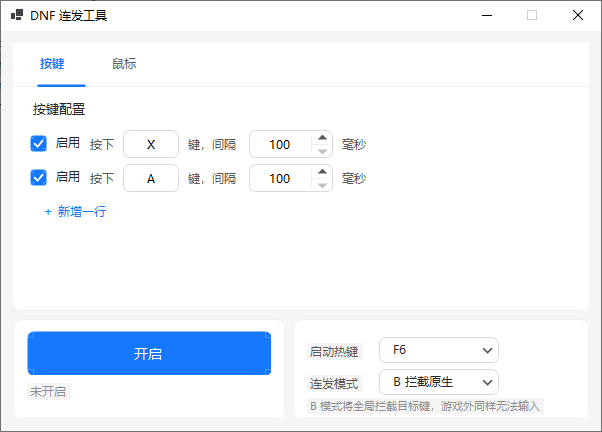
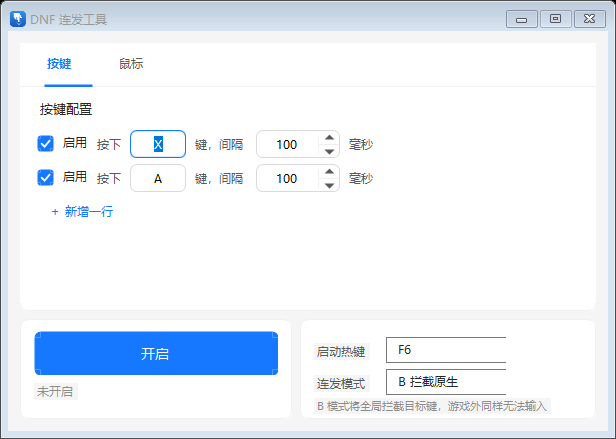
间隔下限改为 1ms；B 模式修复（管理员提权绕过 UIPI）
- 间隔范围 100-5000 改为 1-5000，去掉手动输入的 50 倍数取整（步进按钮仍按 50）
- 连发引擎从 WinForms Timer（实际下限约 15.6ms）重写为高精度线程：
  timeBeginPeriod(1) + Stopwatch 调度，1ms 间隔真正生效；按下立刻补发第一击
- B 模式无效果的根因：DNF(TenProtect) 以管理员运行，UIPI 丢弃低权限
  进程注入的按键；app.manifest 改为 requireAdministrator，注入可达游戏
- 修复图标相关的 3 个 nullable 警告

diff --git a/AutoFireEngine.cs b/AutoFireEngine.cs
@@ -1,66 +1,105 @@
+using System.Diagnostics;
+using System.Runtime.InteropServices;
+
 namespace DnfAutoFire;
 
 /// <summary>
-/// 连发引擎：每个目标键独立一个定时器。
+/// 连发引擎：独立高精度线程按 Stopwatch 调度（支持 1ms 级间隔）。
 /// 按住目标键 → 按设定间隔循环 SendInput(press+release)；松开立刻停止。
 /// 模式 A：放行原生按键，叠加模拟连发；模式 B：拦截原生按键，仅程序模拟（默认）。
 /// </summary>
 internal sealed class AutoFireEngine
 {
-    private readonly Dictionary<int, System.Windows.Forms.Timer> _timers = new();
+    private sealed class KeyState
+    {
+        public int Vk;
+        public int IntervalMs;
+        public volatile bool Held;
+        public long NextDue; // Stopwatch ticks
+    }
+
+    private readonly List<KeyState> _keys = new();
     private KeyboardHook? _hook;
+    private Thread? _worker;
+    private volatile bool _stop;
 
     public bool Running { get; private set; }
 
     /// <summary>"A" 保留原生并叠加；"B" 拦截原生仅模拟。</summary>
     public string Mode { get; set; } = "B";
 
+    [DllImport("winmm.dll")]
+    private static extern uint timeBeginPeriod(uint ms);
+
+    [DllImport("winmm.dll")]
+    private static extern uint timeEndPeriod(uint ms);
+
     public void Start(List<(int Vk, int Ms)> targets)
     {
         Stop();
+        foreach (var t in targets)
+        {
+            if (_keys.Any(k => k.Vk == t.Vk)) continue;
+            _keys.Add(new KeyState { Vk = t.Vk, IntervalMs = Math.Max(1, t.Ms) });
+        }
+
         _hook = new KeyboardHook();
         _hook.KeyDown += OnKeyDown;
         _hook.KeyUp += OnKeyUp;
 
-        foreach (var t in targets)
-        {
-            if (_timers.ContainsKey(t.Vk)) continue;
-            var timer = new System.Windows.Forms.Timer { Interval = Math.Max(100, t.Ms) };
-            int vk = t.Vk;
-            timer.Tick += (_, _) => NativeInput.TapKey(vk);
-            _timers[t.Vk] = timer;
-        }
-
+        _stop = false;
+        timeBeginPeriod(1); // 把系统计时精度提到 1ms，Sleep(1) 才真正约 1ms
+        _worker = new Thread(WorkerLoop) { IsBackground = true, Name = "AutoFireEngine" };
+        _worker.Start();
         _hook.Install();
         Running = true;
     }
 
     public void Stop()
     {
-        foreach (var timer in _timers.Values)
-        {
-            timer.Stop();
-            timer.Dispose();
-        }
-        _timers.Clear();
+        _stop = true;
+        try { _worker?.Join(1000); } catch { /* 线程可能尚未启动 */ }
+        _worker = null;
+        timeEndPeriod(1);
+        _keys.Clear();
         _hook?.Dispose();
         _hook = null;
         Running = false;
     }
 
+    private void WorkerLoop()
+    {
+        var sw = Stopwatch.StartNew();
+        while (!_stop)
+        {
+            long now = sw.ElapsedTicks;
+            foreach (var k in _keys)
+            {
+                if (!k.Held || now < k.NextDue) continue;
+                NativeInput.TapKey(k.Vk);
+                long period = k.IntervalMs * Stopwatch.Frequency / 1000;
+                // 追平落后量，避免累积漂移；不早于当前时刻
+                k.NextDue = Math.Max(k.NextDue + period, sw.ElapsedTicks);
+            }
+            Thread.Sleep(1);
+        }
+    }
+
     private void OnKeyDown(int vk)
     {
-        if (!_timers.TryGetValue(vk, out var timer)) return;
+        var k = _keys.FirstOrDefault(x => x.Vk == vk);
+        if (k == null) return;
         if (Mode == "B") _hook!.SuppressCurrent();
-        // 原生长按会反复触发 keydown，定时器已在跑则忽略
-        if (timer.Enabled) return;
-        timer.Start();
+        if (k.Held) return; // 原生长按会反复触发 keydown
+        k.Held = true;
+        k.NextDue = 0; // 立刻补一发，模拟真实单击
     }
 
     private void OnKeyUp(int vk)
     {
-        if (!_timers.TryGetValue(vk, out var timer)) return;
+        var k = _keys.FirstOrDefault(x => x.Vk == vk);
+        if (k == null) return;
         if (Mode == "B") _hook!.SuppressCurrent();
-        timer.Stop();
+        k.Held = false;
     }
 }

diff --git a/MainForm.cs b/MainForm.cs
@@ -4,7 +4,7 @@ public class MainForm : Form
 {
     private const int WM_HOTKEY = 0x0312;
     private const int HOTKEY_ID_START = 1;
-    private const int MinMs = 100;
+    private const int MinMs = 1;
     private const int MaxMs = 5000;
     private const int RowH = 34;
     private const int MaxRows = 5;  // 最多 5 行（默认 2 + 新增 3）
@@ -45,7 +45,8 @@ public class MainForm : Form
 
     public MainForm()
     {
-        _appIcon = Icon.ExtractAssociatedIcon(Application.ExecutablePath);
+        _appIcon = Icon.ExtractAssociatedIcon(Application.ExecutablePath)
+                   ?? SystemIcons.Application;
         Icon = _appIcon;
 
         Font = new Font(AntStyle.FontName, 9f);
@@ -99,6 +100,22 @@ public class MainForm : Form
 
     /// <summary>调试入口：--screenshot 模拟新增行。</summary>
     internal void DebugAddEmptyRow() => AddEmptyRow();
+
+    /// <summary>调试入口：--enginetest &lt;A|B&gt; &lt;秒&gt;。窗口显示后自动开启连发引擎（默认配置行），数秒后自动关闭退出。</summary>
+    internal void DebugEngineTest(string mode, int seconds)
+    {
+        cboMode.SelectedIndex = mode == "A" ? 1 : 0;
+        var t = new System.Windows.Forms.Timer { Interval = 800 };
+        t.Tick += (_, _) =>
+        {
+            t.Stop();
+            DoStart();
+            var stop = new System.Windows.Forms.Timer { Interval = seconds * 1000 };
+            stop.Tick += (_, _) => { stop.Stop(); DoStop(); Close(); };
+            stop.Start();
+        };
+        t.Start();
+    }
 
     /// <summary>
     /// 调试入口：--uitest &lt;prefix&gt;。窗口全程可见，模拟"进入运行态→回到停止态"的按钮状态切换
@@ -788,7 +805,7 @@ public class MainForm : Form
     private static int NormalizeMs(string text)
     {
         if (!int.TryParse(text?.Trim(), out int v) || v <= 0) return MinMs;
-        return ClampMs(((v + 25) / 50) * 50); // 就近取整到 50 的倍数（步长 50）
+        return ClampMs(v); // 允许 1~5000 任意整数（步进按钮仍按 50 步进）
     }
 
     private static int ClampMs(int v) => Math.Clamp(v, MinMs, MaxMs);

diff --git a/Program.cs b/Program.cs
@@ -49,6 +49,17 @@ internal static class Program
             return;
         }
 
+        // 调试用：dnf-autofire --enginetest <A|B> <秒数> 自动开启连发引擎，数秒后自动关闭退出（真机验证连发行为）
+        if (args.Length >= 4 && args[1] == "--enginetest")
+        {
+            var form = new MainForm();
+            form.Show();
+            form.DebugEngineTest(args[2] == "A" ? "A" : "B",
+                int.TryParse(args[3], out int sec) ? sec : 5);
+            Application.Run(form);
+            return;
+        }
+
         // 单实例保护：双开会导致热键冲突与双重连发
         using var mutex = new Mutex(true, "DnfAutoFire_SingleInstance", out bool createdNew);
         if (!createdNew)

diff --git a/AntControls.cs b/AntControls.cs
@@ -322,13 +322,13 @@ internal class AntInput : Panel
 
 /// <summary>
 /// AntD 数字输入框（InputNumber）：右侧上/下步进按钮（整块右栏可点，上下各半），
-/// 默认步长 50，支持点击步进与键盘 ↑/↓，范围 100~5000，数值居中。
+/// 默认步长 50，支持点击步进与键盘 ↑/↓，范围 1~5000，数值居中。
 /// 可点区域悬停为手型光标，禁用时为禁止光标。
 /// </summary>
 internal sealed class AntNumber : AntInput
 {
     public int Step { get; set; } = 50;
-    public int Min { get; set; } = 100;
+    public int Min { get; set; } = 1;
     public int Max { get; set; } = 5000;
 
     public event EventHandler? ValueChanged;

diff --git a/README.md b/README.md
@@ -8,7 +8,7 @@
 
 - **多键连发配置**：最多 5 行按键配置（默认 X、A 两行），每行可独立设置
   - 键名（仅支持 `A-Z`、`0-9`）
-  - 触发间隔（毫秒，步进 50，范围 100–5000）
+  - 触发间隔（毫秒，步进 50，范围 1–5000）
   - 启用开关（Checkbox）
 - **两种连发模式**
   - `B 拦截原生`：拦截键盘原生输入，由程序接管连发（推荐游戏内使用）
@@ -20,7 +20,7 @@
 
 ## 使用说明
 
-1. 双击运行 `dnf-autofire.exe`（无需安装）
+1. 双击运行 `dnf-autofire.exe`（无需安装；程序以**管理员权限**运行，会弹出 UAC 确认框——DNF 由 TenProtect 保护以高权限运行，Windows UIPI 会丢弃低权限进程注入的按键，只有管理员运行连发注入才能到达游戏）
 2. 在「按键」页配置目标键、间隔毫秒，勾选需要连发的行
 3. 点击左下角「开启」按钮（或按热键 `F6`）
 4. 开启后窗口自动最小化到托盘，按 `F6` 或点击托盘图标可随时停止
